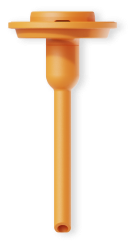
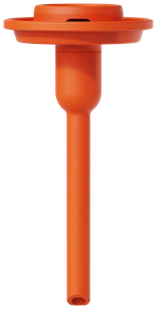
06-open: use the official Venting Tube product image
Claude-Session: https://claude.ai/code/session_01THV4qqvSeac34UZQhCRjNN

Changed region(s): [[0.0, 0.0, 0.9778, 1.0]]

diff --git a/edm/06-open-launch/06-open-waitlist.html b/edm/06-open-launch/06-open-waitlist.html
@@ -86,7 +86,7 @@ a {color:#230052}
               <td width="10" style="width:10px;font-size:0;line-height:0;">&nbsp;</td>
               <td valign="middle" style="font-family:'Parkinsans',Arial,Helvetica,sans-serif;font-weight:600;mso-line-height-rule:exactly;font-size:26px;line-height:26px;color:#230052;">+</td>
               <td width="8" style="width:8px;font-size:0;line-height:0;">&nbsp;</td>
-              <td valign="middle" width="56"><img src="assets/venting-tube.png" width="56" height="103" alt="Free Venting Tube" style="width:56px;height:103px;"/></td>
+              <td valign="middle" width="52"><img src="assets/venting-tube.png" width="52" height="103" alt="Free Venting Tube" style="width:52px;height:103px;"/></td>
             </tr></table>
             <p style="padding-top:14px;font-family:'Onest',Arial,Helvetica,sans-serif;mso-line-height-rule:exactly;font-weight:600;font-size:12px;line-height:16px;letter-spacing:1.5px;text-transform:uppercase;color:#758AFD;text-align:center;">For the waitlist</p>
             <h3 style="padding-top:6px;font-family:'Parkinsans',Arial,Helvetica,sans-serif;font-weight:600;mso-line-height-rule:exactly;font-size:22px;line-height:28px;color:#230052;text-align:center;">Your waitlist thank-you</h3>

diff --git a/edm/06-open-launch/build.py b/edm/06-open-launch/build.py
@@ -83,7 +83,7 @@ def coupon_card():
               <td width="10" style="width:10px;font-size:0;line-height:0;">&nbsp;</td>
               <td valign="middle" style="{H}font-size:26px;line-height:26px;color:{NAVY};">+</td>
               <td width="8" style="width:8px;font-size:0;line-height:0;">&nbsp;</td>
-              <td valign="middle" width="56"><img src="{TUBE}" width="56" height="103" alt="Free Venting Tube" style="width:56px;height:103px;"/></td>
+              <td valign="middle" width="52"><img src="{TUBE}" width="52" height="103" alt="Free Venting Tube" style="width:52px;height:103px;"/></td>
             </tr></table>
             <p style="padding-top:14px;{B}font-weight:600;font-size:12px;line-height:16px;letter-spacing:1.5px;text-transform:uppercase;color:{PERI};text-align:center;">For the waitlist</p>
             <h3 style="padding-top:6px;{H}font-size:22px;line-height:28px;color:{NAVY};text-align:center;">Your waitlist thank-you</h3>
